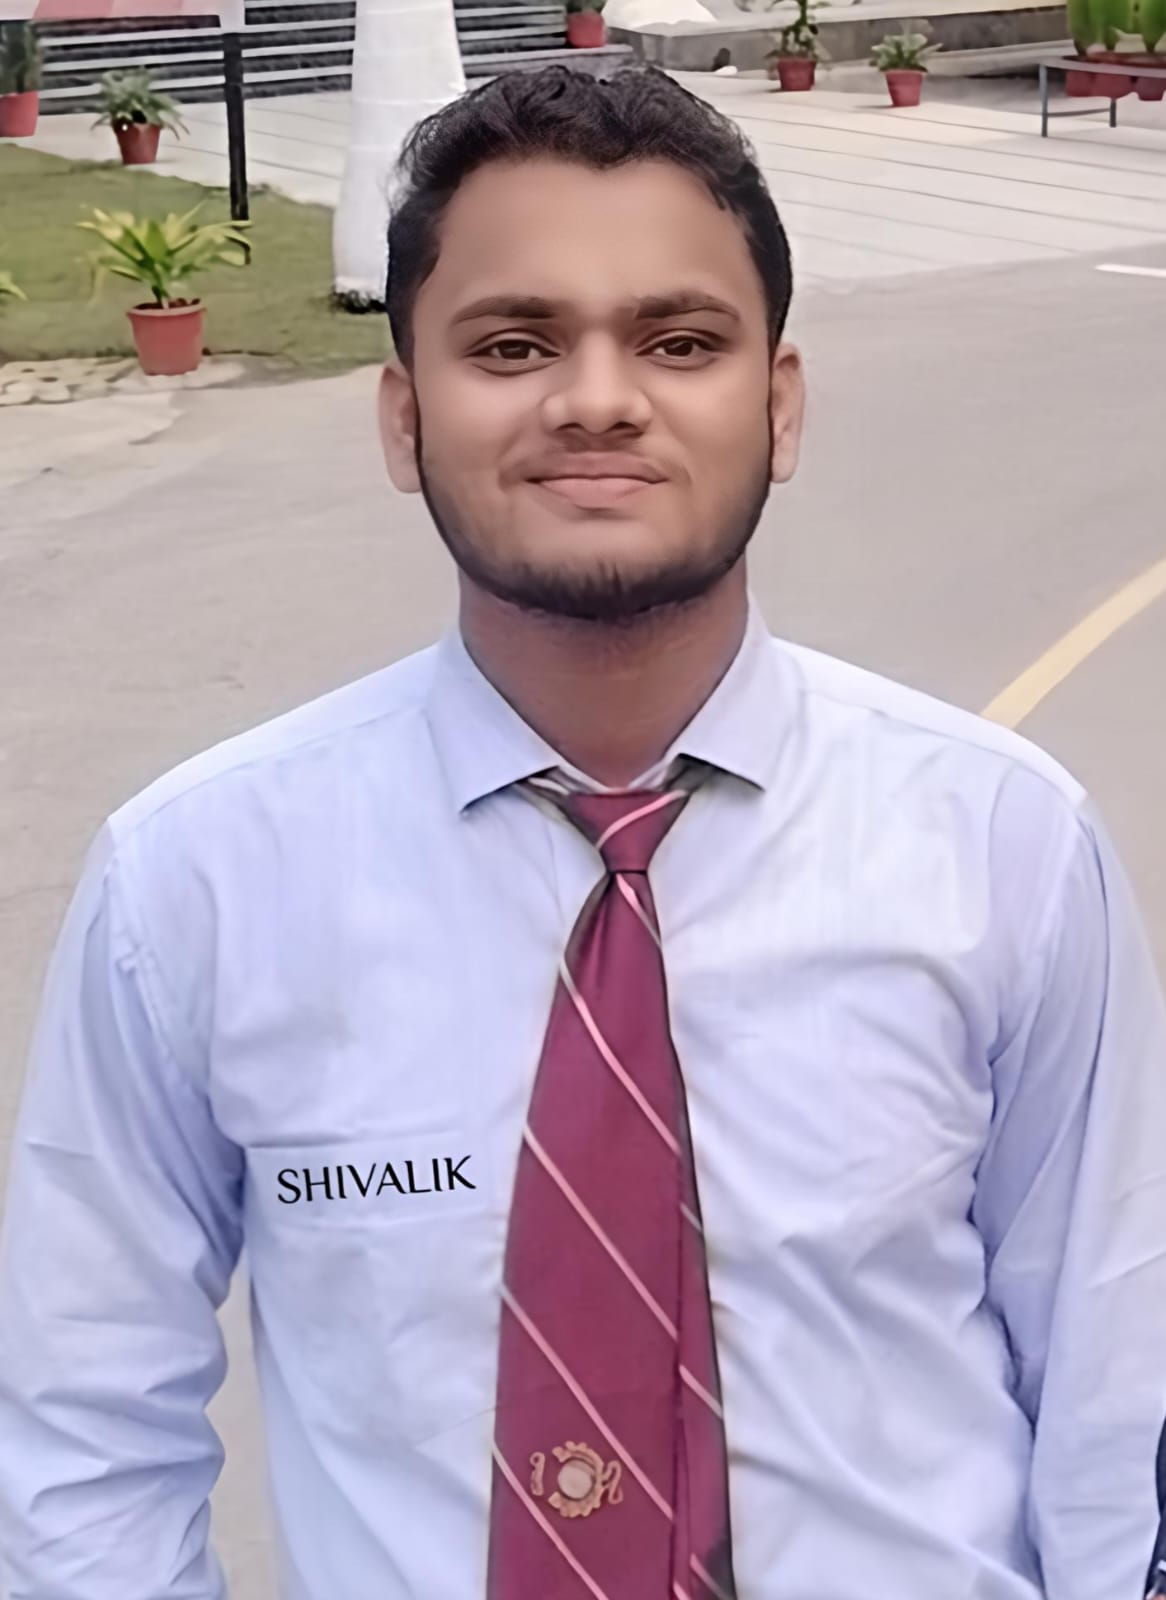
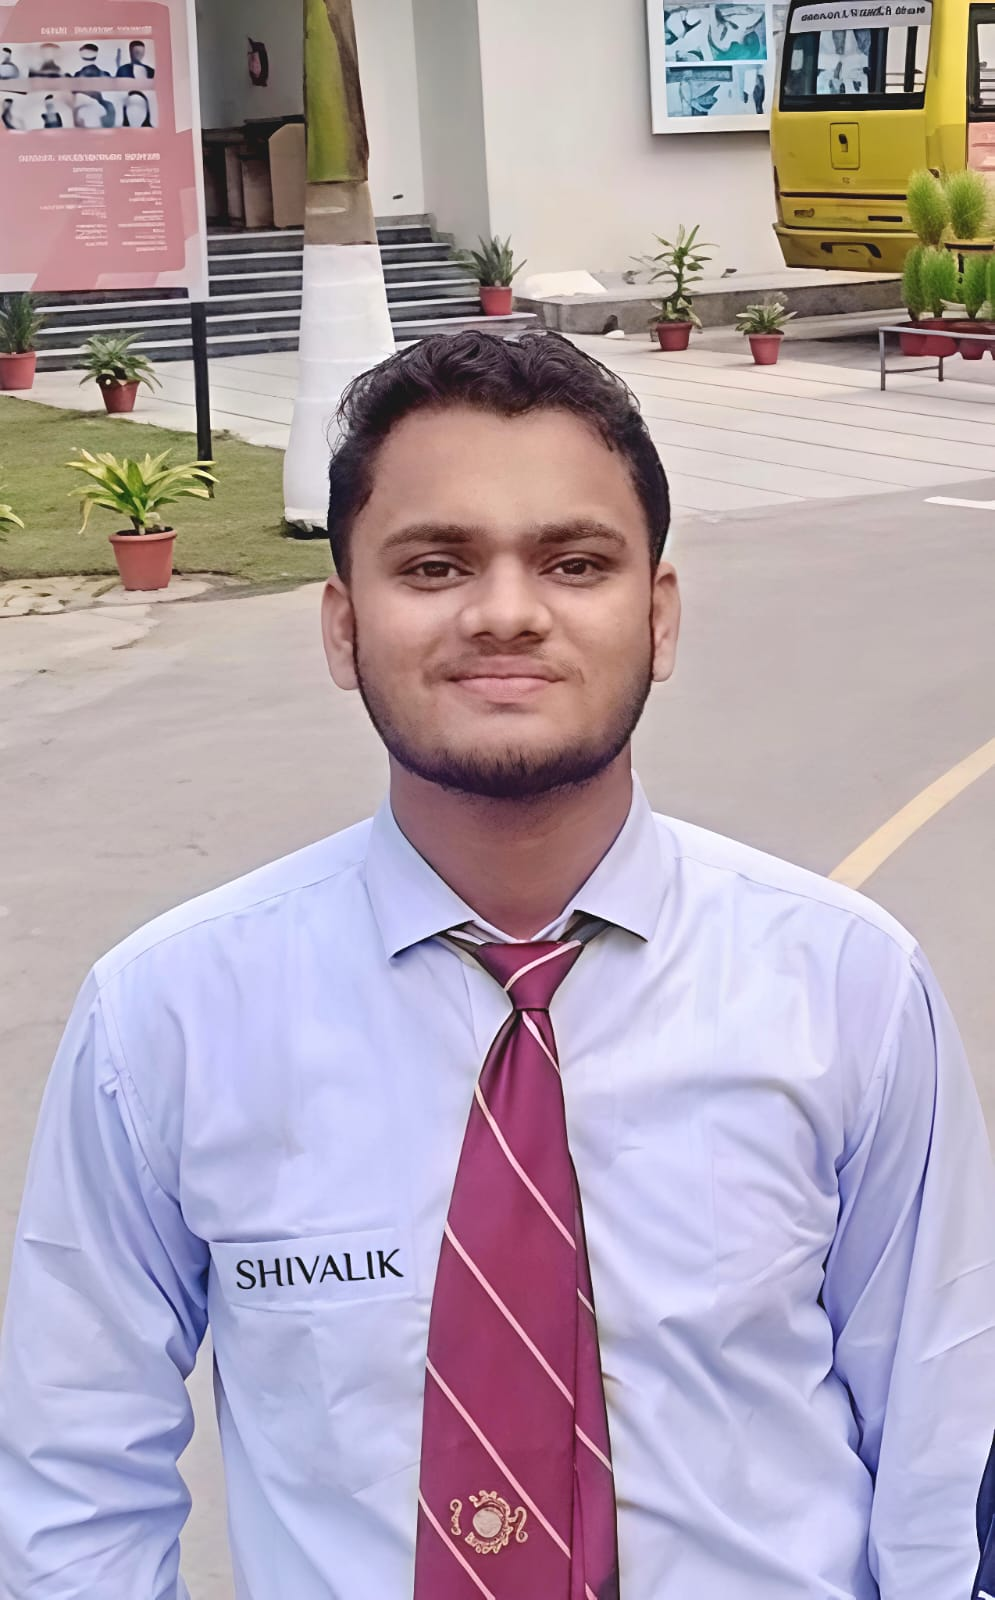
Update photos for Shivam and Kumar Satyam

diff --git a/src/components/TechnicalCommittee.tsx b/src/components/TechnicalCommittee.tsx
@@ -53,7 +53,7 @@ export default function TechnicalCommittee() {
         { name: "Shivam Kumar", role: "Vice Chairperson (ACM)", image: "/shivam.jpeg" },
         { name: "Aman Bhardwaj", role: "Treasurer (ACM)", image: "/aman_b.jpeg" },
         { name: "Gaurav Kumar", role: "Secretary (ACM)", image: "/gaurav.jpeg" },
-        { name: "Kumar Satyam", role: "Graphic Head (ACM)", image: "/kumar_satyam.png" },
+        { name: "Kumar Satyam", role: "Graphic Head (ACM)", image: "/kumar_satyam.jpeg" },
         { name: "Prashant Sekhar", role: "C.A Lead (ACM)", image: "/prashant.jpeg" },
         { name: "Ishant", role: "C.R Head (ACM)", image: "/ishant.jpeg" },
         { name: "Himanshu Kumar", role: "Media Head (ACM)", image: "/himanshu.jpeg" },
